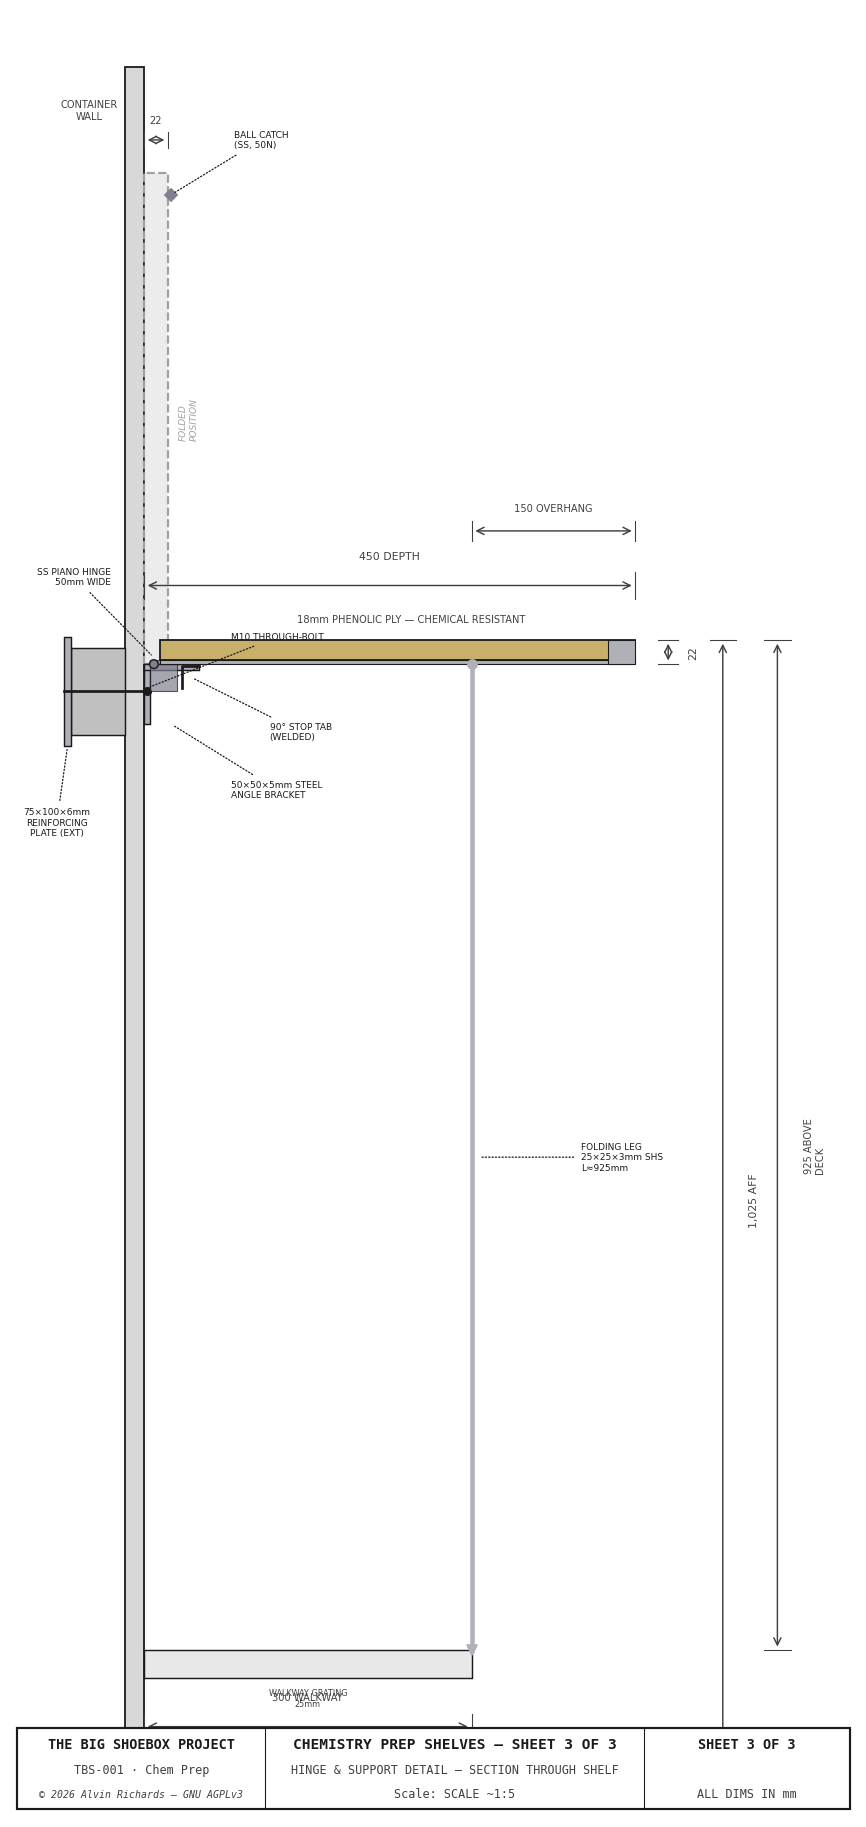
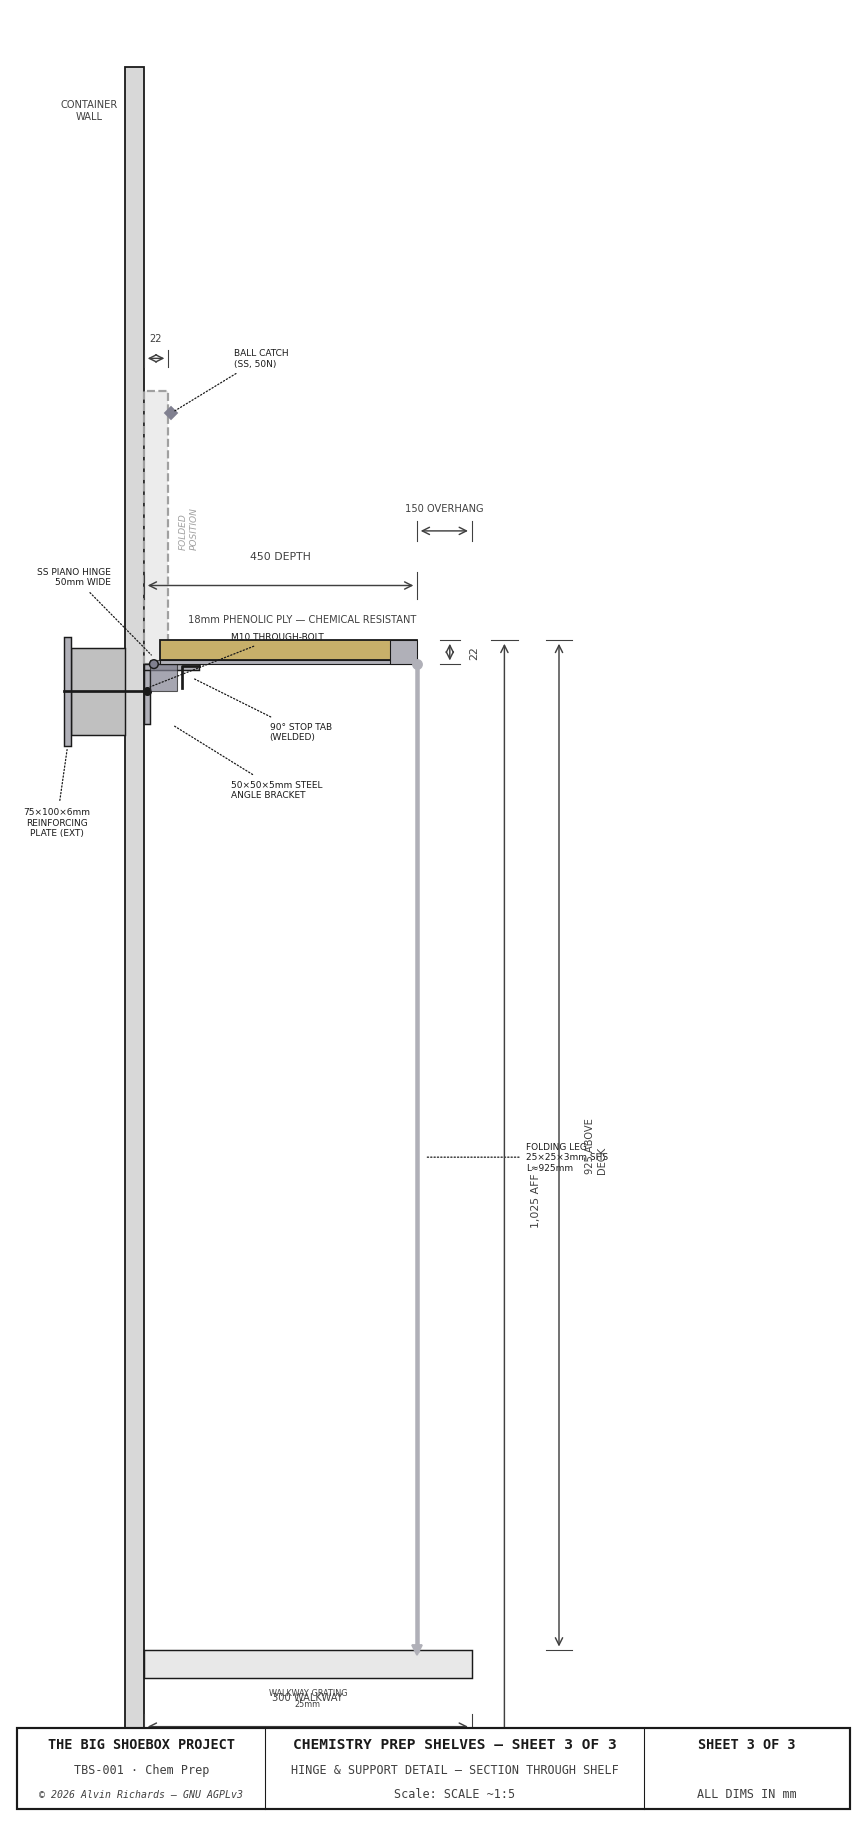
Reduce shelf depth to 250mm — operator can stand in front
The 450mm depth extended beyond the walkway, forcing the operator to
work from the side. At 250mm the shelf front edge is within the 300mm
walkway, so the operator stands at the outer walkway edge facing the
wall and uses the shelf as a conventional counter.

Folded height drops from 1,475mm to 1,275mm (525mm clear of trunking).

diff --git a/generate_shelf_diagram.py b/generate_shelf_diagram.py
@@ -53,14 +53,14 @@ C_PUMP   = "#B8C8B0"   # pump manifold context
 # ── Derived constants ──────��─────────────────────────────────────────────────
 SHELF_A_R = SHELF_A_X + SHELF_W         # 3,650mm
 SHELF_B_R = SHELF_B_X + SHELF_W         # 4,629mm
-SHELF_FOLD_TOP = SHELF_H + SHELF_DEPTH  # 1,475mm (top edge when folded)
+SHELF_FOLD_TOP = SHELF_H + SHELF_DEPTH  # 1,275mm (top edge when folded)
 CABLE_TRUNK_H = 1800                     # cable trunking height AFF
 CABLE_TRUNK_SIZE = 40                    # trunking cross-section (40×25mm)
-LEG_LENGTH = 500                         # folding leg approximate length
-# Leg foot rests at walkway outer edge (Yd=300), pivot at shelf front (Yd=450)
-# When deployed: leg spans from shelf underside at Yd≈300 down to deck at H=100
-LEG_PIVOT_YD = 300       # pivot at 2/3 shelf depth from wall
-LEG_FOOT_H = WALKWAY_H  # rests on walkway deck = 100mm
+LEG_LENGTH = 925                         # folding leg approximate length (H=1025 - 100)
+# Leg pivots at shelf front edge (Yd=250), foot on walkway deck at H=100
+# When deployed: leg is vertical from shelf underside down to deck
+LEG_PIVOT_YD = SHELF_DEPTH              # pivot at front edge of shelf (Yd=250)
+LEG_FOOT_H = WALKWAY_H                  # rests on walkway deck = 100mm
 
 
 # ═══════════════════════════════════════════════════════════════════════════════

diff --git a/tbs_constants.py b/tbs_constants.py
@@ -187,7 +187,7 @@ PUMP_H_HI  = 600     # pump manifold top H (mm)
 SHELF_A_X      = 2900    # shelf A left edge X (mm) — 100mm clearance from pump manifold
 SHELF_B_X      = 3879    # shelf B left edge X (mm)
 SHELF_W        = 750     # shelf width (mm)
-SHELF_DEPTH    = 450     # shelf deployed depth from wall (mm) — Yd=0 to Yd=450
+SHELF_DEPTH    = 250     # shelf deployed depth from wall (mm) — Yd=0 to Yd=250
 SHELF_H        = 1025    # hinge / work surface height AFF (mm) — 925mm above walkway deck
 SHELF_T        = 22      # shelf total thickness (mm) — 18mm ply + 4mm frame
 SHELF_GAP      = 229     # gap between shelves (mm)

diff --git a/chemistry-prep-shelves.md b/chemistry-prep-shelves.md
@@ -48,14 +48,14 @@ Two identical shelves centered in the available zone:
 | Shelf A position | X=2,900–3,650mm |
 | Shelf B position | X=3,879–4,629mm |
 | Width (each) | 750mm |
-| Depth (deployed) | 450mm (Yd=0 to Yd=450mm) |
+| Depth (deployed) | 250mm (Yd=0 to Yd=250mm) |
 | Gap between shelves | 229mm |
 | Work surface height | H=1,025mm above floor (925mm above walkway deck) |
 | Shelf thickness | 22mm (18mm ply + 4mm perimeter frame) |
 | Protrusion when folded | 22mm from wall face |
-| Folded top edge height | H=1,475mm (325mm below cable trunking) |
-| Walkway overhang (deployed) | 150mm past walkway outer edge |
-| Total work surface area | 2 × 750 × 450 = 675,000 mm² (0.675 m²) |
+| Folded top edge height | H=1,275mm (525mm below cable trunking) |
+| Walkway overhang (deployed) | None — front edge at Yd=250mm, within 300mm walkway |
+| Total work surface area | 2 × 750 × 250 = 375,000 mm² (0.375 m²) |
 
 ### 3.2 Construction
 
@@ -63,7 +63,7 @@ Two identical shelves centered in the available zone:
 
 **Frame:** 25×25×3mm mild steel SHS (square hollow section), welded into a rectangular perimeter frame matching the ply panel. The frame provides rigidity and the attachment points for the piano hinge and folding leg. Finish: flat black powder coat (interior standard).
 
-**Folding leg:** One per shelf. 25×25×3mm steel SHS, approximately 925mm long (spans from shelf underside at Yd=300 down to walkway deck at H=100mm). Pivots on a M8 shoulder bolt at the shelf frame's front cross-member, at the 2/3 depth point (Yd=300mm from wall). When deployed, the leg is vertical — foot rests on the walkway grating. When folded, the leg swings up and lies flat against the shelf underside, retained by a neodymium disc magnet.
+**Folding leg:** One per shelf. 25×25×3mm steel SHS, approximately 925mm long (spans from shelf underside down to walkway deck at H=100mm). Pivots on a M8 shoulder bolt at the shelf frame's front cross-member at the front edge (Yd=250mm from wall). When deployed, the leg is vertical — foot rests on the walkway grating. The operator stands at the walkway outer edge (Yd≈250–300mm), facing the wall, with the shelf at counter height directly in front of them. When folded, the leg swings up and lies flat against the shelf underside, retained by a neodymium disc magnet.
 
 ### 3.3 Fold Mechanism
 
@@ -78,7 +78,7 @@ The shelf folds **up** against the wall:
 | Parameter | Value |
 |-----------|-------|
 | Design load per shelf | 20 kg (44 lbs) |
-| Moment at hinge (20 kg at 225mm centroid) | 44 N·m |
+| Moment at hinge (20 kg at 125mm centroid) | 25 N·m |
 | Support | Piano hinge (distributed) + folding leg at Yd=300 |
 | Safety factor | >3× (piano hinge shear capacity ~150 N·m per 750mm) |
 
@@ -104,7 +104,7 @@ This method requires no welding inside the container and can be installed with b
 | Check | Status |
 |-------|--------|
 | Folded protrusion from wall | 22mm — well within 300mm walkway clearance ✓ |
-| Folded top edge | H=1,475mm — 325mm below cable trunking (H=1,800mm) ✓ |
+| Folded top edge | H=1,275mm — 525mm below cable trunking (H=1,800mm) ✓ |
 | Ball catch engagement | 50N — holds against road vibration (ISO 668 transport loads) ✓ |
 | Folding leg stored | Flat against shelf underside, magnet-retained ✓ |
 | Conflicts with other systems | None — clear of pump manifold, IBC stack, walkway ✓ |
@@ -130,7 +130,7 @@ This method requires no welding inside the container and can be installed with b
 
 | Item | Spec | Qty | Supplier | Est. cost |
 |------|------|-----|----------|-----------|
-| Phenolic-faced plywood, 18mm | 1220×2440mm sheet (cut to 2× 750×450) | 1 | Local lumber yard / Home Depot | ~$60 |
+| Phenolic-faced plywood, 18mm | 1220×2440mm sheet (cut to 2× 750×250) | 1 | Local lumber yard / Home Depot | ~$60 |
 | 25×25×3mm steel SHS | 6m length | 2 | Pacific Coast Steel / Online Metals | ~$60 |
 | 50×50×5mm steel angle | 6m length (cut to 2× 750mm) | 1 | Pacific Coast Steel / Online Metals | ~$40 |
 | SS piano hinge, 50mm × 900mm | Cut to 2× 750mm | 1 | McMaster-Carr #1658A31 | ~$30 |
@@ -160,7 +160,7 @@ Interior elevation showing both shelves in deployed position (solid) and folded 
 
 ### Sheet 2 — Plan View
 
-Top-down view showing shelf depth relative to the 300mm near walkway. The 150mm overhang past the walkway outer edge does not obstruct walkway passage — operator stands between the wall and the shelf front edge.
+Top-down view showing shelf depth relative to the 300mm near walkway. The shelf front edge (Yd=250mm) is within the walkway — operator stands at the walkway outer edge and works at the shelf like a counter.
 
 ![Chemistry Prep Shelves — Sheet 2: Plan View](assets/shelf-sheet2.png)
 
